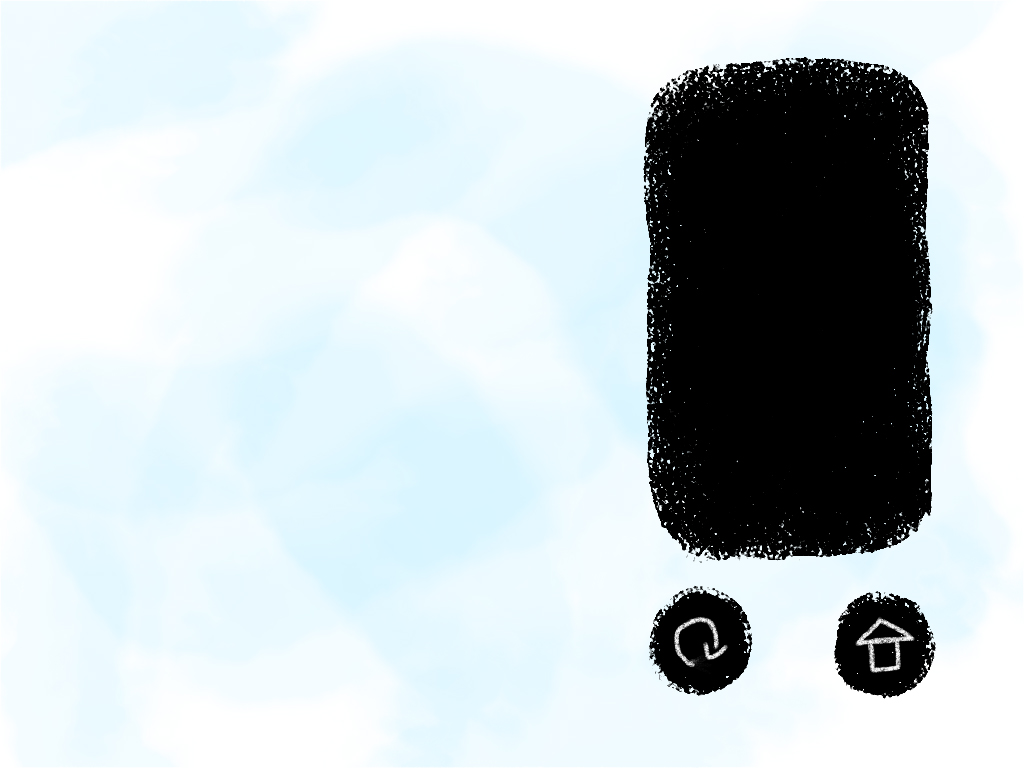
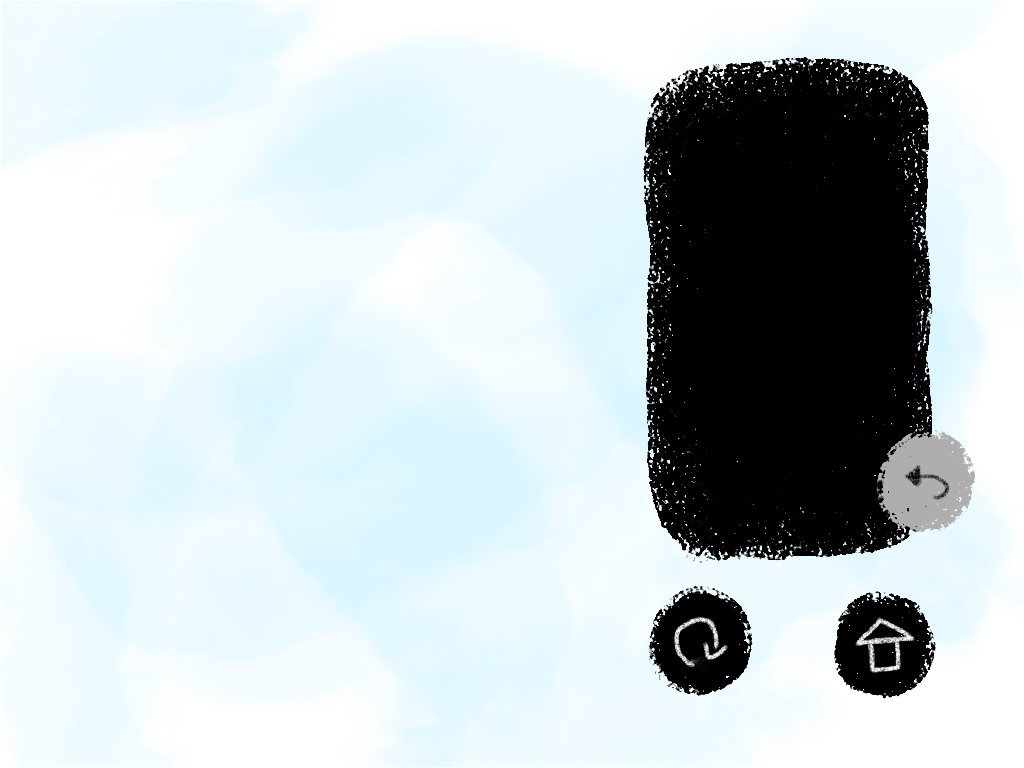
undoing selected letters work

Changed region(s): [[0.8438, 0.5625, 0.9688, 0.6875]]

diff --git a/word-search/src/WordSearchMain.java b/word-search/src/WordSearchMain.java
@@ -64,6 +64,9 @@ public class WordSearchMain {
         Grid grid = randomMode();
         System.out.println(grid.toString());
 
+        //properties of letters that have been clicked
+        ArrayList<JButton> clickedLetters = new ArrayList<>();
+
         //character grid
         char[][] charGrid = grid.getChars();
         JLabel gridLabel = new JLabel();
@@ -72,6 +75,8 @@ public class WordSearchMain {
         for (char[] row : charGrid) {
             for (char letter : row) {
                 JButton button = new JButton (String.valueOf(letter));
+                button.setFont(new Font("Verdana", Font.PLAIN, 16));
+                button.setBackground(Color.getHSBColor(210, 25, 90));
                 button.setOpaque(false);
                 button.setContentAreaFilled(false);
                 button.setBorderPainted(false);
@@ -79,8 +84,7 @@ public class WordSearchMain {
                     @Override
                     public void actionPerformed(ActionEvent e) {
                         button.setOpaque(true);
-                        button.setBackground(Color.getHSBColor(210, 25, 90));
-
+                        clickedLetters.add(button);
                     }
                 });
                 gridLabel.add(button);
@@ -99,6 +103,25 @@ public class WordSearchMain {
         wordsLabel.setBounds(710, 85, 300, 300);
         wordsLabel.setForeground(Color.white);
         gamePage.add(wordsLabel);
+
+        //undo highlight button
+        JButton undoButton = new JButton();
+        undoButton.setBounds(888, 445, 80, 80);
+//        undoButton.setOpaque(false);
+//        undoButton.setBorderPainted(false);
+//        undoButton.setContentAreaFilled(false);
+        undoButton.addActionListener(new ActionListener() {
+            @Override
+            public void actionPerformed(ActionEvent e) {
+                while (!clickedLetters.isEmpty()) {
+                    JButton b = clickedLetters.get(0);
+                    b.setOpaque(false);
+                    b.repaint();
+                    clickedLetters.remove(b);
+                }
+            }
+        });
+        gamePage.add(undoButton);
 
         //regenerate button
         JButton newGridButton = new JButton();
